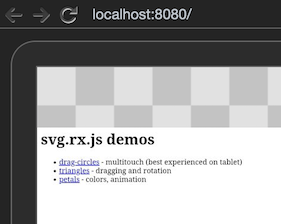
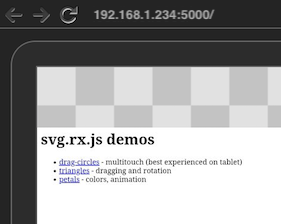
Live reload works on Android, iOS

Changed region(s): [[0.3132, 0.0312, 0.7687, 0.0938]]

diff --git a/rollup.config.js b/rollup.config.js
@@ -1,33 +1,81 @@
 // Rollup config
 //
+// Note: This configuration is derived from https://github.com/sveltejs/template/blob/master/rollup.config.js
+//      and should closely resemble it (check from time to time for upstream edits?).
+//
 import svelte from 'rollup-plugin-svelte';
 import resolve from 'rollup-plugin-node-resolve';
 import commonjs from 'rollup-plugin-commonjs';
-//import { terser } from 'rollup-plugin-terser';
-//import pkg from './package.json';
+import livereload from 'rollup-plugin-livereload';
+import { terser } from 'rollup-plugin-terser';
 
-//const production = !process.env.ROLLUP_WATCH;
+const production = !process.env.ROLLUP_WATCH;
 
 export default [
     // Demo app / triangles
     {
-        input: "demo.svelte/index.js",
+        input: "demo.svelte/main.js",
         output: {
-            file: "out/public/demos.js",
-            format: "iife",    // Q: is 'iife' a good target? #advice
-            sourcemap: true
+            sourcemap: true,
+            format: "iife",
+            name: 'app',   // Q: what does this affect? (from 'svelte-template')
+            file: "public/build/bundle.js",
         },
         plugins: [
-            svelte({ dev: true, css: css => css.write('out/public/demos.css') }),
-            resolve({
-                jsnext: true,       // tbd. why? (from svelte-spinner example) #advice
-                main: true,         // tbd. why? (-''-) #advice
-                browser: true       // tbd. why? (-''-) #advice
+            svelte({
+                // enable run-time checks when not in production
+                dev: !production,
+                // extract any component CSS into a separate file — better for performance and clearer
+                css: css => {
+                    css.write('public/build/bundle.css');
+                }
             }),
-            commonjs()      // tbd. is this neeeded and why?
+
+            // If you have external dependencies installed from npm, you'll most likely need these plugins. In
+            // some cases you'll need additional configuration — consult the documentation for details:
+            // https://github.com/rollup/rollup-plugin-commonjs
+            resolve({
+                browser: true,
+                dedupe: importee => importee === 'svelte' || importee.startsWith('svelte/')
+            }),
+            commonjs(),
+
+            // In dev mode, call `npm run start` once the bundle has been generated
+            !production && serve(),
+
+            // Watch the `public` directory and refresh the browser on changes when not in production
+            !production && livereload('public'),
+
+            // If we're building for production ('npm run build' instead of 'npm run dev'), minify
+            production && terser()
         ],
+
         watch: {
             clearScreen: false
         }
     }
 ];
+
+function serve() {
+    let started = false;
+
+    return {
+        writeBundle() {
+            if (!started) {
+                started = true;
+
+                // Note: Unlike in Svelte template, we start 'sirv' directly from here, instead of going through
+                //      'package.json'. This seems simpler - was there a reason to not do so, in the template?
+                //
+                //      Template had: 'npm run start -- --dev'
+                //
+                // Note: '--host' serves also in the network IP (e.g. '192.168.1.234'). We need this for mobile devices.
+                //
+                require('child_process').spawn('npx', ['sirv', 'public', '--dev', '--host'], {
+                    stdio: ['ignore', 'inherit', 'inherit'],
+                    shell: true
+                });
+            }
+        }
+    };
+}

diff --git a/public/index.html b/public/index.html
@@ -1,0 +1,23 @@
+<!DOCTYPE html>
+<!--
+- public/index.html
+-
+- This file is the entry point to the Svelte-generated bundles. It's version controlled.
+-->
+<html lang="en">
+<head>
+    <meta charset="UTF-8">
+    <meta name="viewport" content="width=device-width, initial-scale=1.0">
+    <meta http-equiv="X-UA-Compatible" content="ie=edge">
+
+    <title>svg.rx.js demos</title>
+
+    <link rel="stylesheet" href="/global.css">
+    <link rel="stylesheet" href="/build/bundle.css">
+
+    <script defer src='/build/bundle.js'></script>
+</head>
+
+<body>
+</body>
+</html>

diff --git a/public/global.css b/public/global.css
@@ -1,0 +1,25 @@
+/*
+* public/global.css
+*
+* Global CSS, read in by 'index.html' for all the pages.
+*/
+div#cradle {
+  _position: fixed;
+  top: 0;
+  left: 0;
+  /* Note: 99% lets also the right red edge to be shown, even if there are vertical scroll bars (OS X Safari) */
+  width: 99%;
+  border: 1px solid red;
+}
+
+/* DEBUG
+*/
+.debug {
+  stroke-width: 1px;
+  stroke: red;
+  fill: none;
+}
+
+text.debug {
+  fill: red;
+}

diff --git a/demo.svelte/main.js b/demo.svelte/main.js
@@ -1,0 +1,11 @@
+import App from './TrianglesDemo.svelte';
+
+const app = new App({
+    target: document.body,
+    props: {
+        name: 'deffe22323'
+    }
+});
+
+export default app;
+

diff --git a/demo.svelte/TrianglesDemo.svelte b/demo.svelte/TrianglesDemo.svelte
@@ -3,7 +3,7 @@
 -->
 
 <script>
-
+    export let name;
 </script>
 
 <style>
@@ -26,5 +26,5 @@
 
 <!-- HTML -->
 <p>
-    HEY THERE!!!
+    HEY THERE {name}!!!
 </p>

diff --git a/README.md b/README.md
@@ -28,6 +28,7 @@ The reasons why this isn't already practical lie within the SVG details. It does
 - providing the bare mechanisms needed, instead of trying to cater for a certain kind of application
 - value brewity of the code, and maintainability
 - provide support for both desktop and touch use cases, equally
+- embrace Svelte 3, as a development abstraction and toolchain
   
 ## Platform scope
 
@@ -35,14 +36,11 @@ Scope of the project is SVG on modern browsers. That probably means no IE9..11 s
 
 - Latest Safari on macOS
 - Latest Chrome on macOS
-- Safari on iOS 13
-  - on iPhone 8 and iPad Pro
-- Chrome on Android 9
-  - on Sony XPeria phone 
+- Safari on iOS 13 (iPad Pro)
+- Chrome on Android 9 (Sony Xperia phone) 
 
 <!-- hidden (but take back?)
-- Chrome on Latest Android browser 
-  - on Nexus 7
+- Chrome on Andoid xxx (Nexus 7)
 --> 
 
 If you find platforms where it doesn't work for you, [issues](https://github.com/akauppi/svg.rx.js/issues) and pull requests are the way to go.
@@ -57,6 +55,21 @@ If you find platforms where it doesn't work for you, [issues](https://github.com
 
 Please send a PR if you need these - and provide a demo or test that proves when the support works.
 
+## Following Svelte conventions
+
+The folder structure is derived from [Svelte template](https://github.com/sveltejs/template). In particular:
+
+```
+|- public      # files to host
+|   |- index.html
+|   |- global.css
+|   |- build      # output folder for the bundles
+|       |- ...
+|- src         # source files
+``` 
+
+We embrace Svelte as the building technology and wish to remain familiar in structure to developers using it, elsewhere.
+
 
 ---
 
@@ -67,8 +80,6 @@ Install the tools and dependencies (needed for running demos):
 ```
 $ npm install
 ```
-
-><font color=blue>👉 Currently, this gives some vulnerability warnings. We're catching up with time and hope to see them gone.</font>
 
 <!-- remove (replace with mention of installing Puppeteer; only needed for running the tests)
 -->
@@ -81,15 +92,44 @@ $ phantomjs --version
 
 ><font color=orange>⚠ PhantomJS is discontinued. Change tests to run with Puppeteer.</font>
 
+
 ## Demos
 
-- [sources](demo/)
+- [sources](demo.svelte/)
 - [online](http://akauppi.github.io/svg.rx.js/index.html) - may not be the latest versions
+
+><font color=orange>Note: The online demos are currently from an older branch (2015-16); they are *not* what the source creates. WIP</font>
 
 The demos work both as sample code and as manual tests.
 
-For the desktop, you can simply open `demo/index.html`.
+```
+$ npm run dev
+...
+  Your application is ready~! 🚀
 
+  - Local:      http://0.0.0.0:5000
+  - Network:    http://192.168.1.234:5000
+
+────────────────── LOGS ──────────────────
+```
+
+This builds the demos and serves them. Changes to the code will be reflected in the browser, without need of refresh. 😏
+
+
+### Running on a mobile device
+
+Get to know your local IP, e.g. Option-click on the WLAN icon in macOS or use `ifconfig` on command line. Let's say it's `192.168.1.234`.
+
+Open the mobile device's browser at `http://192.168.1.234:5000`. 
+
+For remote debugging, see [DEV-TIPS/Remote debugging](DEV-TIPS/Remote%20debugging.md).
+
+
+
+```
+$ 
+
+<!-- REMOVE
 To use the demos from touch devices (iOS or Android), you need to serve them locally:
 
 ```
@@ -104,6 +144,7 @@ Hit CTRL-C to stop the server
 ```
 
 Then reach for that `http://192.168.1.234:8080` from your mobile device (in the same WLAN).
+-->
 
 
 ## Code
@@ -225,8 +266,9 @@ These are presented for code comparisons. Their approach is the normal event cap
 
 ### Background info
 
-- [How to Use npm as a Build Tool](http://blog.keithcirkel.co.uk/how-to-use-npm-as-a-build-tool/) - blog by Keith Cirkel
-- [Phantomjs, Mocha and Chai for functional testing](http://doublenegative.com/phantomjs-mocha-and-chai-for-functional-testing/) (blog, Thomas Clowes, Aug 2014)
-
+- [How to Use npm as a Build Tool](https://www.keithcirkel.co.uk/how-to-use-npm-as-a-build-tool/) - (blog, Dec 2014) by Keith Cirkel
+- [Phantomjs, Mocha and Chai for functional testing](https://thomasclowes.com/phantomjs-mocha-and-chai-for-functional-testing/) (blog, Aug 2014) by Thomas Clowes
+    
 <!-- tbd. remove the Phantomjs mention once using Puppeteer? -->
-<br />
+
+

diff --git a/DEV-TIPS/Remote Debugging.md b/DEV-TIPS/Remote Debugging.md
@@ -1,8 +1,10 @@
 # Remote Debugging
 
-Multitouch events cannot really be emulated on a regular (non-touch) desktop device, like a Mac. To develop for them, you need to attach an Android or iOS device with a USB cable to the development machine.
+Multitouch events cannot really be emulated on a regular (non-touch) desktop device, like a Mac. To debug them, you need to attach the device with a USB cable to the development machine.[^1]
 
->This also expects that you are serving the demos locally, via `npm run serve`, e.g. in port 8080.
+[^1]: At least initially, in the case of iOS.
+
+The guidance below expects you are hosting the demos on the development machine (`npm run dev`) at `192.168.1.234:5000`.
 
 
 ## Android Remote Debugging
@@ -14,26 +16,15 @@ Follow the guidance to set it up. No installation of Android tools on the deskto
 1. Enable USB debugging on the device
 2. Open Chrome on the desktop, point to `chrome://inspect`
 3. Check that the device is seen
-4. Use the tool to see inside the Android Chrome instance
+4. Browser to `http://192.168.1.234:5000`
 
-<!-- here used to be some screenshots, but they were old
--->
+	>![](images/chrome-demos.png)
 
-See [Access Local Servers](https://developers.google.com/web/tools/chrome-devtools/remote-debugging/local-server) for the next steps.
+5. Use the desktop tools to see inside of the mobile Chrome browser
 
-1. Go to `Settings` in the desktop Chrome and tick `Port forwarding` on:
+Have fun!  Remember to try multiple fingers on the demos.
 
-   ![](images/chrome-port-forwarding.png)
-
-2. Point the mobile Chrome to `localhost:8080`.
-
-You should see:
-
-![](images/chrome-demos.png)
-
-Have fun - remember to use multiple fingers!
-
-Refresh the mobile browser if you change the underlying code.
+>👉 We are *not* using Chrome port forwarding because automatic change propagation does not work through it, for some reason.
 
 
 ## iOS Remote Debugging
@@ -42,15 +33,13 @@ Safari has a a similar remote debugging setup, as Chrome:
 
 1. Enable remote debugging on iOS: `Settings` > `Safari` > `Advanced` > `Web Inspector`
 
-2. Open the demo hosted by your desktop (e.g. `http://192.168.1.234:8080`).
+2. Open the demo hosted by your desktop (e.g. `http://192.168.1.234:5000`).
 
 3. Open in desktop Safari `Developer` > `iPad (...)` > web page
 
    ![](images/safari_remote_inspection.png)
 
-Unlike Chrome, this does not seem to provide a mirror of the web rendering, but that's okay. You get access to the debugging tools.
+Unlike Chrome, this does not seem to provide a mirror of the web rendering, but that's okay. It may even be better, since this allows us to more realistically see the performance while connected to the device.
 
-In fact, not mirroring the rendered contents may be better, since it allows us to more realistically see the performance while connected with the device.
-
-> 💡Hint: Tap `Connect via network` and you are not tied to the cable between the iOS device and the desktop. :)
+>💡Hint: `Connect via network` and you are not tied to the cable between the iOS device and the desktop. :)
 

diff --git a/DEV-TIPS/Notes.md b/DEV-TIPS/Notes.md
@@ -1,0 +1,14 @@
+# Notes
+
+## `npm outdated`
+
+Use it to see, whether dependencies have moved on:
+
+```
+$ npm outdated 
+Package                Current         Wanted  Latest  Location
+@reactivex/rxjs  5.0.0-beta.10  5.0.0-beta.10   6.5.3  svg.rx.js
+rollup                  1.27.8         1.27.9  1.27.9  svg.rx.js
+systemjs               0.19.47        0.19.47   6.1.7  svg.rx.js
+```
+

diff --git a/CHANGELOG.md b/CHANGELOG.md
@@ -3,7 +3,7 @@
 ## latest
 
 - started transition to 2019 tech :)
-- added mocha tests
+
 
 ## 0.0.5
 
